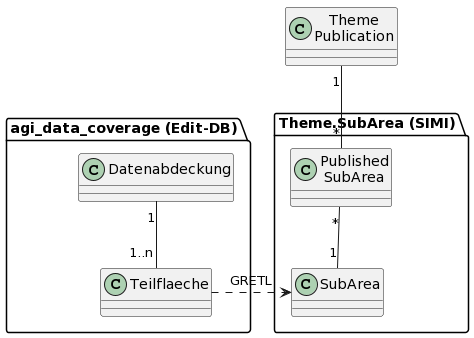
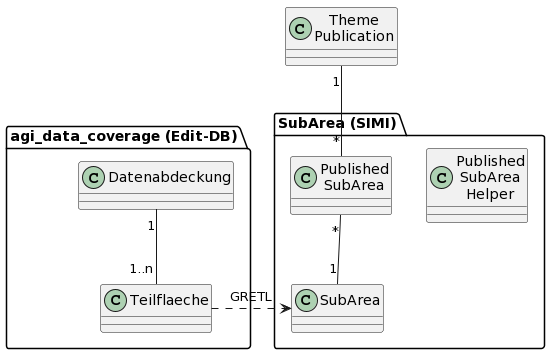
upd doc

diff --git a/modeldoc/theme.md b/modeldoc/theme.md
@@ -10,7 +10,7 @@ Bildet die Themen und Themenbereitstellungen ab (Datenbezug)
 
 Die Geometrien werden mittels GRETL-Job in die SIMI-DB kopiert.
 
-Dokumentation siehe [hier](theme_subarea.md)
+Dokumentation SubArea siehe [hier](theme_subarea.md)
 
 ## Klasse Theme
 
@@ -51,12 +51,23 @@ Konkrete Bereitstellung(en) eines Themas für einen Nutzungszweck. Beispiel Them
 
 |Name|Typ|Z|Beschreibung|
 |---|---|---|---|
-|dataClass|Enum|j|Typ der Publikation: vecSimple, vecRelational, nonVec, other. Bei vec* werden die verfügbaren Dateitypen automatisch hergeleitet.|
-|classSuffixOverride|String(50)|(n)|Explizit gesetzter Suffix für den identifier. Bsp. **kommunal** für kommunale Nutzungsplanung. Resultierender Identifier: ch.so.arp.nutzungsplanung.kommunal|
+|publicModelName|String|(n)|Name des Publikationsmodelles. Zwingend für tabellarische Daten. Der GRETL Publisher ermittelt dynamisch das Publikationsmodell und meldet dieses mit dem Publikations-Zeitpunkt an SIMI. Bei Differenzen bricht der GRETL-Job mit Fehler ab.|
+|dataClass|Enum|j|Typ der Publikation: tableSimple, tableRelational, nonTabular. Deprecated. Siehe Bemerkungen|
+|classSuffixOverride|String(50)|(n)|Suffix auf den Themen-Identifier zur Unterscheidung bei mehreren Bereitstellungen pro Thema (Null bei nur einer Bereitstellung). Bsp. **kommunal** für kommunale Nutzungsplanung. Resultierender Identifier: ch.so.arp.nutzungsplanung.kommunal. Todo: Rename auf identSuffix. Deprecated.|
 |titleOverride|String(200)|n|Überschreibung des Themen-Titels.|
 |descriptionOverride|String(1000)|n|Überschreibung der Themen-Beschreibung.|
 |coverageIdent|String(100)|j|Identifier der Datenabdeckung (DataCoverage) dieser Themenbereitstellung. Default "ktso" für ganzer Kanton.|
 |remarks|String|n|Interne Bemerkungen.|
+|modelUpdateTs|String|n|Deprecated|
+|modelUpdatedBy|String|n|Deprecated|
+
+Bemerkungen:
+
+* dataClass: Inzwischen unglücklicher Mix von Bedeutungen / Konsequenzen
+  * Falls =tableRelational wird identifier auf *.relational ausgefüllt
+  * Falls =tableRelational in data.geo.so.ch nicht sichtbar
+  * Falls =tableSimple und keine Dateitypen zugewiesen: Default-Zuweisung in View
+  * Fazit: Ersetzen mit Boolean "Nur auf files.geo.so.ch"
 
 ### Konstraints
 
@@ -64,17 +75,17 @@ UK über _typeSuffix, "FK auf Thema".
 
 ## Klasse CustomFileType
 
-Enthält die Dateitypen des Datenbezugs für nicht über den Publisher bereitgestellte ThemenBereitstellungen (Raster, ...).
+Enthält die Dateitypen des Datenbezugs. Zip wird nicht erfasst, da dieses nur als Ordner dient und nicht Aussagekräftig ist.
 
-Zip wird nicht erfasst, da dieses nur als Ordner dient und nicht Aussagekräftig ist.
+Deprecated: Umbenennen von CustomFileType auf FileType
 
 ### Attributbeschreibung
 
 |Name|Typ|Z|Beschreibung|
 |---|---|---|---|
-|mimeType|String(255)|j|Mime-Type des Dateityps. Attribut ist auch der identifier für die automatische Zuordnung der "Vektor-Gebrauchsformate".|
+|mimeType|String(255)|j|Mime-Type des Dateityps.|
 |name|String(100)|j|Sprechender Name des Dateityps.|
-|kuerzel|String(50)|j|Suffix für Dateien dieses Typs für die Benennung des entsprechenden ZIP (xtf, itf, shp, gpkg, ...).|
+|kuerzel|String(50)|j|Suffix für die Dateibenennung. Bei gezippter Bereitstellung zweiteilig. Beispiele: xtf.zip, gpkg.zip, tif, laz. Wird in data.geo.so.ch, Geocat-Export als Key für weitere Eigenschaften verwendet (Sortierung, ...)|
 
 ### Konstraints
 
@@ -95,11 +106,15 @@ Siehe [DataSetView](data.md#klasse-datasetview-dsv) in Teilmodell "Data".
 
 Organisationseinheit, welche zu den Themen-Bereitstellungen fachlich oder technisch Auskunft geben kann.
 
-Da die technische Auskunft immer durch das AGI erfolgt, wird nur die Beziehung für die fachliche Auskunft ausmodelliert.
+Da die technische Auskunft immer durch das AGI erfolgt, wird nur die Beziehung für die fachliche Auskunft modelliert und geführt.
 
 ### Attributbeschreibung
 
-Keine Attribute.
+|Name|Typ|Z|Beschreibung|
+|---|---|---|---|
+|name|String(100)|j|Name (Bezeichnung) der Organisationseinheit. Bsp: "Amt für Geoinformation", SubOrg: "Abteilung Boden (AfU)", SubSubOrg: "Fachbereich Altlasten (AfU Abteilung Boden)"|
+
+Todo: Name unique setzen. Deprecated
 
 ## Klasse Agency
 
@@ -109,52 +124,29 @@ Informationen zum Amt (AfU, ARP, AGI, ...). Hinweis: Punktuell ist der Klassenü
 
 |Name|Typ|Z|Beschreibung|
 |---|---|---|---|
-|name|String(100)|j|Name des Amts. Bsp: "Amt für Geoinformation"|
-|abbreviation|String(10)|j|Kürzel für das Amt (AfU, ARP, ...).|
+|abbreviation|String(10)|j|Kürzel für das Amt (AfU, ARP, ...). Kürzel "AGI" dient als Schlüssel für die "automatische" Zuweisung des techn. Kontaktes zu allen Themen.|
 |url|String(255)|j|URL der Homepage des Amts.|
 |phone|String(20)|j|Kennung und Vorwahl innerhalb CH: 032 212 66 77|
 |email|String(50)|j|Email-Adresse des Amtes|
 
 ### Konstraints
 
-UK auf name.   
-UK auf kuerzelAmt.
+UK auf abbreviation.
 
 ## Klasse SubOrg
 
-Unterorganisation innerhalb eines Amts. Der Einfachheit halber wird nur eine Hierarchiestufe ausmodelliert (Es gibt keine SubSubOrg). Beispiel für die Erfassung eines Fachbereiches als SubOrg: "Fachbereich Altlasten (Abteilung Boden)".
+Unterorganisation innerhalb eines Amts. Der Einfachheit halber wird nur eine Hierarchiestufe ausmodelliert (Es gibt keine Klasse SubSubOrg).
 
 ### Attributbeschreibung
 
 |Name|Typ|Z|Beschreibung|
 |---|---|---|---|
-|name|String(100)|j|Name der Unterorganisation. Bsp: "Abteilung Boden".|
 |url|String(255)|n|URL der Homepage des Amts.|
 |phone|String(20)|n|Kennung und Vorwahl innerhalb CH: 032 212 66 77.|
 |email|String(50)|n|Email-Adresse der Untereinheit.|
 
+Alle Attribute sind optionale Überschreibungen den Angaben auf der Agency.
+
 ### Konstraints
 
 UK auf name und FK zum Amt (Wird nur bei kleinem Aufwand umgesetzt).
-
-## Modellierungsvarianten ILI-Modell -> Klasse -> Attribut
-
-* Ueber DSV (Dokumentierte Version):
-  * Vorteile:
-    * Den Benutzern im AGI vertraut
-    * Durchgängig gleich für alle Datentypen (Vektor, Raster, ...)
-    * Konsistent bezüglich Keywords, Synonyms
-    * (Verknüpfung zu den Rollen besteht bereits für allfälligen Bezug von zugriffsgeschützten Dateien)
-  * Nachteile:
-    * "Identifier-Inflation": Beispielsweise ch.so.agi.gebaeude.adressen_bezug für Bezug und ch.so.agi.gebaeude.adressen_view für WGC, WMS
-    * Erfassungsfehler möglich, da ohne Validierung Konf <> Modell. Impact ausschliesslich auf die Dokumentation.
-      * Erfassung kann nach Bedarf unterstützt werden --> $td Abklären t_ili2db_attrname, t_ili2db_inheritance.
-* Ueber PostgresTable (Alternativ - Nicht ausmodelliert):
-  * Beschreibung: 
-    * Im Theme werden die Modelle eingetragen. Die geschützten Attribute in der PostgresTable markiert.
-    * Vorteile:
-      * "Konfiguration näher im Keller"
-    * Nachteile:
-      * Keywords, Synonyms
-      * Unterschiedliche Konfigurationsart bezüglich der Attribute
-      * Andere Konfiguration Vec, Non-Vec

diff --git a/modeldoc/theme_subarea.md b/modeldoc/theme_subarea.md
@@ -4,6 +4,10 @@ Dokumentiert die Klassen des Package Theme.SubArea (SIMI) und die Zusammenhänge
 
 ![DataCoverage](resources/theme/subarea.png)
 
+### Bemerkungen zu den Beziehungen
+
+* PublishedSubArea: Der FK auf SubArea ist konzeptionell zwingend. Physisch optional umgesetzt, damit der GRETL-Job die SubAreas löschen und neu einfügen kann.
+
 ## Klasse PublishedSubArea
 
 Mit dem "published" Timestamp wird in dieser Klasse gespeichert, wann ein Teilgebiet einer Themenpublikation das letzte Mal publiziert wurde. "published" wird für Vektordaten via GRETL-Publisher geschrieben.
@@ -14,6 +18,7 @@ Mit dem "published" Timestamp wird in dieser Klasse gespeichert, wann ein Teilge
 |---|---|---|---|
 |published|DateTime|j|Letzte (aktuellste) Publikation dieses Teils der ThemenBereitstellung.|
 |prevPublished|DateTime|j|Vorletzte Publikation dieses Teils der ThemenBereitstellung.|
+|subAreaIdent|String(100)|n|Hilfsfeld für die Zuweisung auf die entsprechende SubArea bei Aktualisierung aus der Edit-DB (via GRETL-Job).|
 
 ### Konstraints
 
@@ -31,34 +36,16 @@ Wird mittels GRETL-Job aus dem Schema "agi_data_coverage" (Modell SO_AGI_Meta_Da
 |Name|Typ|Z|Beschreibung|
 |---|---|---|---|
 |identifier|String(100)|j|Eindeutige Kennung des Teilgebiets.|
-|coverageIdent|String(100)|n|Kennung der Datenabdeckung des importierten Teilgebiets (Sprechender FK auf die Datenabdeckung in der Edit-DB). |
+|coverageIdent|String(100)|j|Kennung der Datenabdeckung des importierten Teilgebiets (Sprechender FK auf die Datenabdeckung in der Edit-DB). |
 |geomWKB|byte[]|j|Polygon-Geometrie des Teilgebietes als WKB.|
-|title|String(255)|n|Sprechender Titel des Teilgebiets.|
+|title|String(255)|n|Sprechender Titel des Teilgebiets. Todo: Auf Mandatory setzen oder |
 
 ### Konstraints
 
 UK über identifier, coverageIdent, updated
 
-# Ablauf der Datensynchronisation
+## Klasse PublishedSubAreaHelper
 
-* db2db mit `update = null`
-* Update der bestehende Beziehungen von PublishedSubArea auf die neu importierten SubArea
-* Alle Subareas löschen: `where update is not null`
-* Version für neu importierte setzen: `update = now()`
+Hilfsklasse, mit welcher der Rollout-GRETL Job die PublishedSubArea der Pub-DB auf die ThemePublication der Int-DB zuweist (Zwecks Erhalt der produktiven Publikationsdaten).
 
-# Ablauf bei PUT-Aufruf durch Publisher
-
-## 1. Publisher sendet Aktualisierung
-
-    {
-      "dataIdent": "ch.so.afu.gewaesserschutz",
-      "published": "2021-12-23T14:54:49.050062",
-      "partIdentifiers": ["224", "225"]
-    }
-
-## 2. Aktualisierung PublishedSubArea
-
-* Falls PublishedSubArea bereits vorhanden:
-  * Dieses Aktualisieren (Timestamp).
-* Sonst:
-  * Neues PublishedSubArea erstellen.
+Ablauf siehe readme.md im GRETL-Job "agi_layer_rollout"
